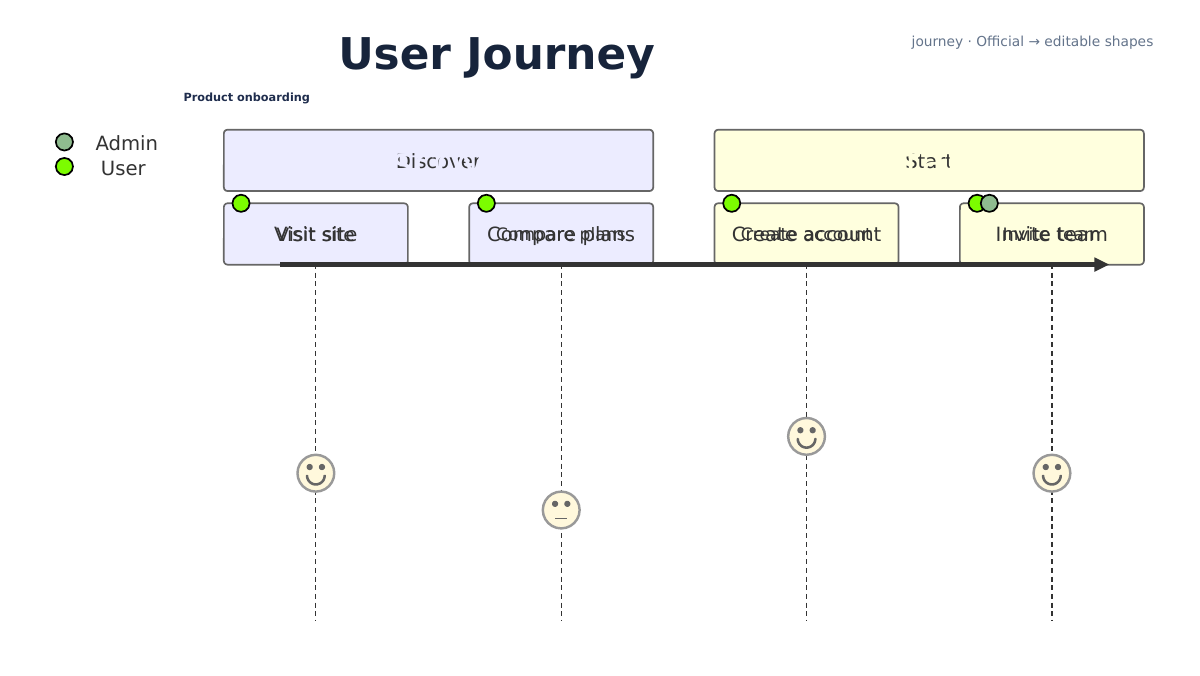
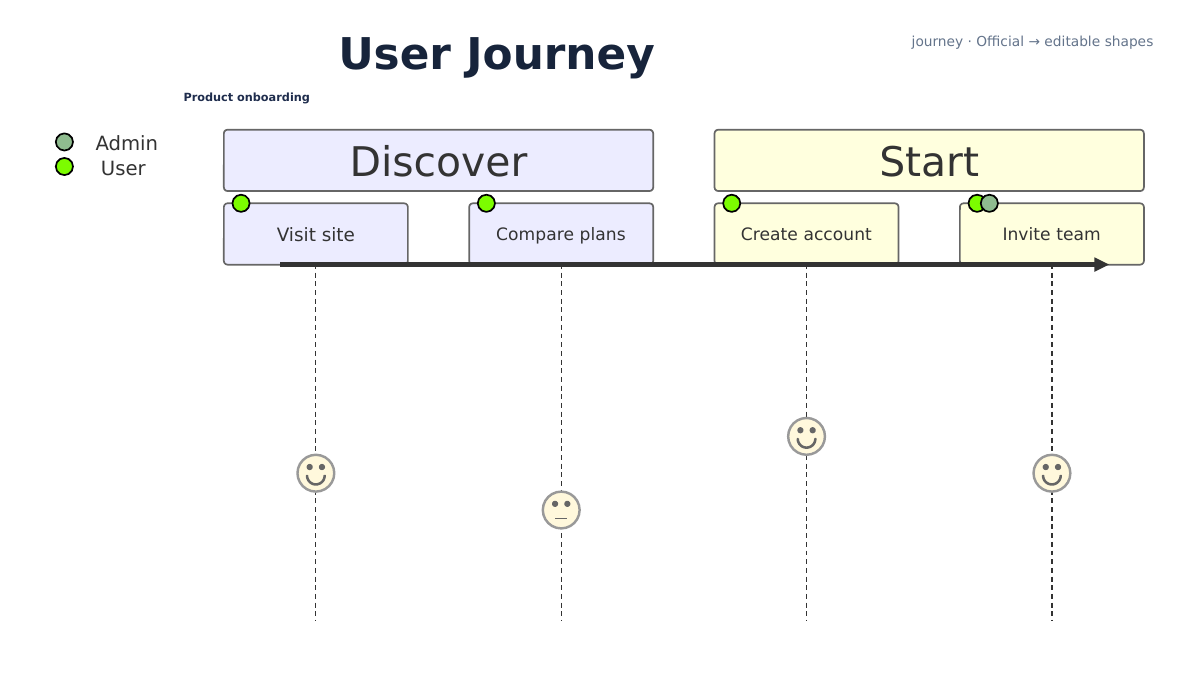
Embed journey and timeline labels in shapes

diff --git a/src/diagram_pptx/importers/mermaid_svg.py b/src/diagram_pptx/importers/mermaid_svg.py
@@ -690,13 +690,16 @@ def _walk(
 def _coalesce_node_labels(scene: DrawingScene) -> None:
     """Put simple node labels in their native PowerPoint shape.
 
-    Mermaid SVG represents geometry and labels separately.  For flow, state,
-    and Kanban nodes a single label can safely become the shape's own text
-    frame, which is more editable and prevents a redundant textbox from
-    drifting during group scaling. Structured diagrams keep their independent
-    compartment text.
+    Mermaid SVG represents geometry and labels separately. For simple Flow,
+    State, Kanban, Journey, and Timeline nodes, a label can safely become the
+    shape's own text frame, which is more editable and prevents a redundant
+    textbox from drifting during group scaling. Structured diagrams keep their
+    independent compartment text.
     """
 
+    if scene.kind in {"journey", "timeline"}:
+        _coalesce_contained_node_labels(scene)
+        return
     if scene.kind not in {"flowchart", "kanban", "state"}:
         return
     shapes_by_id: dict[str, list[SceneShape]] = {}
@@ -724,6 +727,46 @@ def _coalesce_node_labels(scene: DrawingScene) -> None:
         shape.text = text.text
         shape.style = shape.style.merged(text.style)
         consumed.add(id(text))
+    if consumed:
+        scene.elements = [item for item in scene.elements if id(item) not in consumed]
+
+
+def _coalesce_contained_node_labels(scene: DrawingScene) -> None:
+    """Move visually contained Journey/Timeline labels into their AutoShapes."""
+
+    eligible_classes = {
+        "journey": {"journey-section", "task"},
+        "timeline": {"timeline-node"},
+    }[scene.kind]
+    shapes = [
+        item
+        for item in scene.elements
+        if isinstance(item, SceneShape) and not item.classes.isdisjoint(eligible_classes)
+    ]
+    texts = [item for item in scene.elements if isinstance(item, SceneText)]
+    consumed: set[int] = set()
+    for shape in shapes:
+        candidates = [
+            item
+            for item in texts
+            if id(item) not in consumed
+            and shape.box.x <= item.box.center.x <= shape.box.x + shape.box.width
+            and shape.box.y <= item.box.center.y <= shape.box.y + shape.box.height
+        ]
+        if not candidates:
+            continue
+        selected = max(
+            candidates,
+            key=lambda item: (
+                item.style.text is not None
+                and normalize_color(item.style.text) != normalize_color(shape.style.fill or "none"),
+                len(item.classes & shape.classes),
+                -item.box.width * item.box.height,
+            ),
+        )
+        shape.text = selected.text
+        shape.style = shape.style.merged(selected.style)
+        consumed.update(id(item) for item in candidates if item.text == selected.text)
     if consumed:
         scene.elements = [item for item in scene.elements if id(item) not in consumed]
 

diff --git a/tests/test_official_backend.py b/tests/test_official_backend.py
@@ -114,6 +114,43 @@ def test_mermaid_svg_puts_kanban_card_text_in_the_card_shape() -> None:
     assert not any(isinstance(item, SceneText) for item in scene.elements)
 
 
+def test_mermaid_svg_deduplicates_journey_labels_into_their_shapes() -> None:
+    scene = import_mermaid_svg(
+        """\
+<svg xmlns="http://www.w3.org/2000/svg" viewBox="0 0 240 80">
+  <rect class="journey-section" x="10" y="10" width="220" height="50" rx="4"/>
+  <text x="120" y="40" text-anchor="middle">Discover</text>
+  <text class="journey-section" x="120" y="40"
+        text-anchor="middle" font-size="18">Discover</text>
+</svg>
+""",
+        kind="journey",
+    )
+
+    section = next(item for item in scene.elements if isinstance(item, SceneShape))
+    assert section.text == "Discover"
+    assert section.style.font_size == 18
+    assert not any(isinstance(item, SceneText) for item in scene.elements)
+
+
+def test_mermaid_svg_puts_timeline_labels_in_their_shapes() -> None:
+    scene = import_mermaid_svg(
+        """\
+<svg xmlns="http://www.w3.org/2000/svg" viewBox="0 0 240 100">
+  <rect class="timeline-node eventWrapper" x="10" y="20"
+        width="220" height="50" rx="4"/>
+  <text class="timeline-node eventWrapper" x="120" y="68"
+        text-anchor="middle" font-size="16">Public beta</text>
+</svg>
+""",
+        kind="timeline",
+    )
+
+    event = next(item for item in scene.elements if isinstance(item, SceneShape))
+    assert event.text == "Public beta"
+    assert not any(isinstance(item, SceneText) for item in scene.elements)
+
+
 def test_mermaid_svg_samples_elliptical_arc_paths() -> None:
     scene = import_mermaid_svg(
         """\

diff --git a/CHANGELOG.md b/CHANGELOG.md
@@ -54,6 +54,10 @@ Versioning.
   and chart labels relative to the diagram's short side.
 - Official Sankey output now stacks node names and values on separate lines
   and scales their typography relative to the complete diagram.
+- Official User Journey section and task labels now live directly in their
+  editable AutoShapes, with duplicate SVG fallback labels removed.
+- Official Timeline year and event labels now live directly in their
+  editable AutoShapes and remain vertically centered after scaling.
 
 ## [0.1.0a1] - 2026-07-26
 
